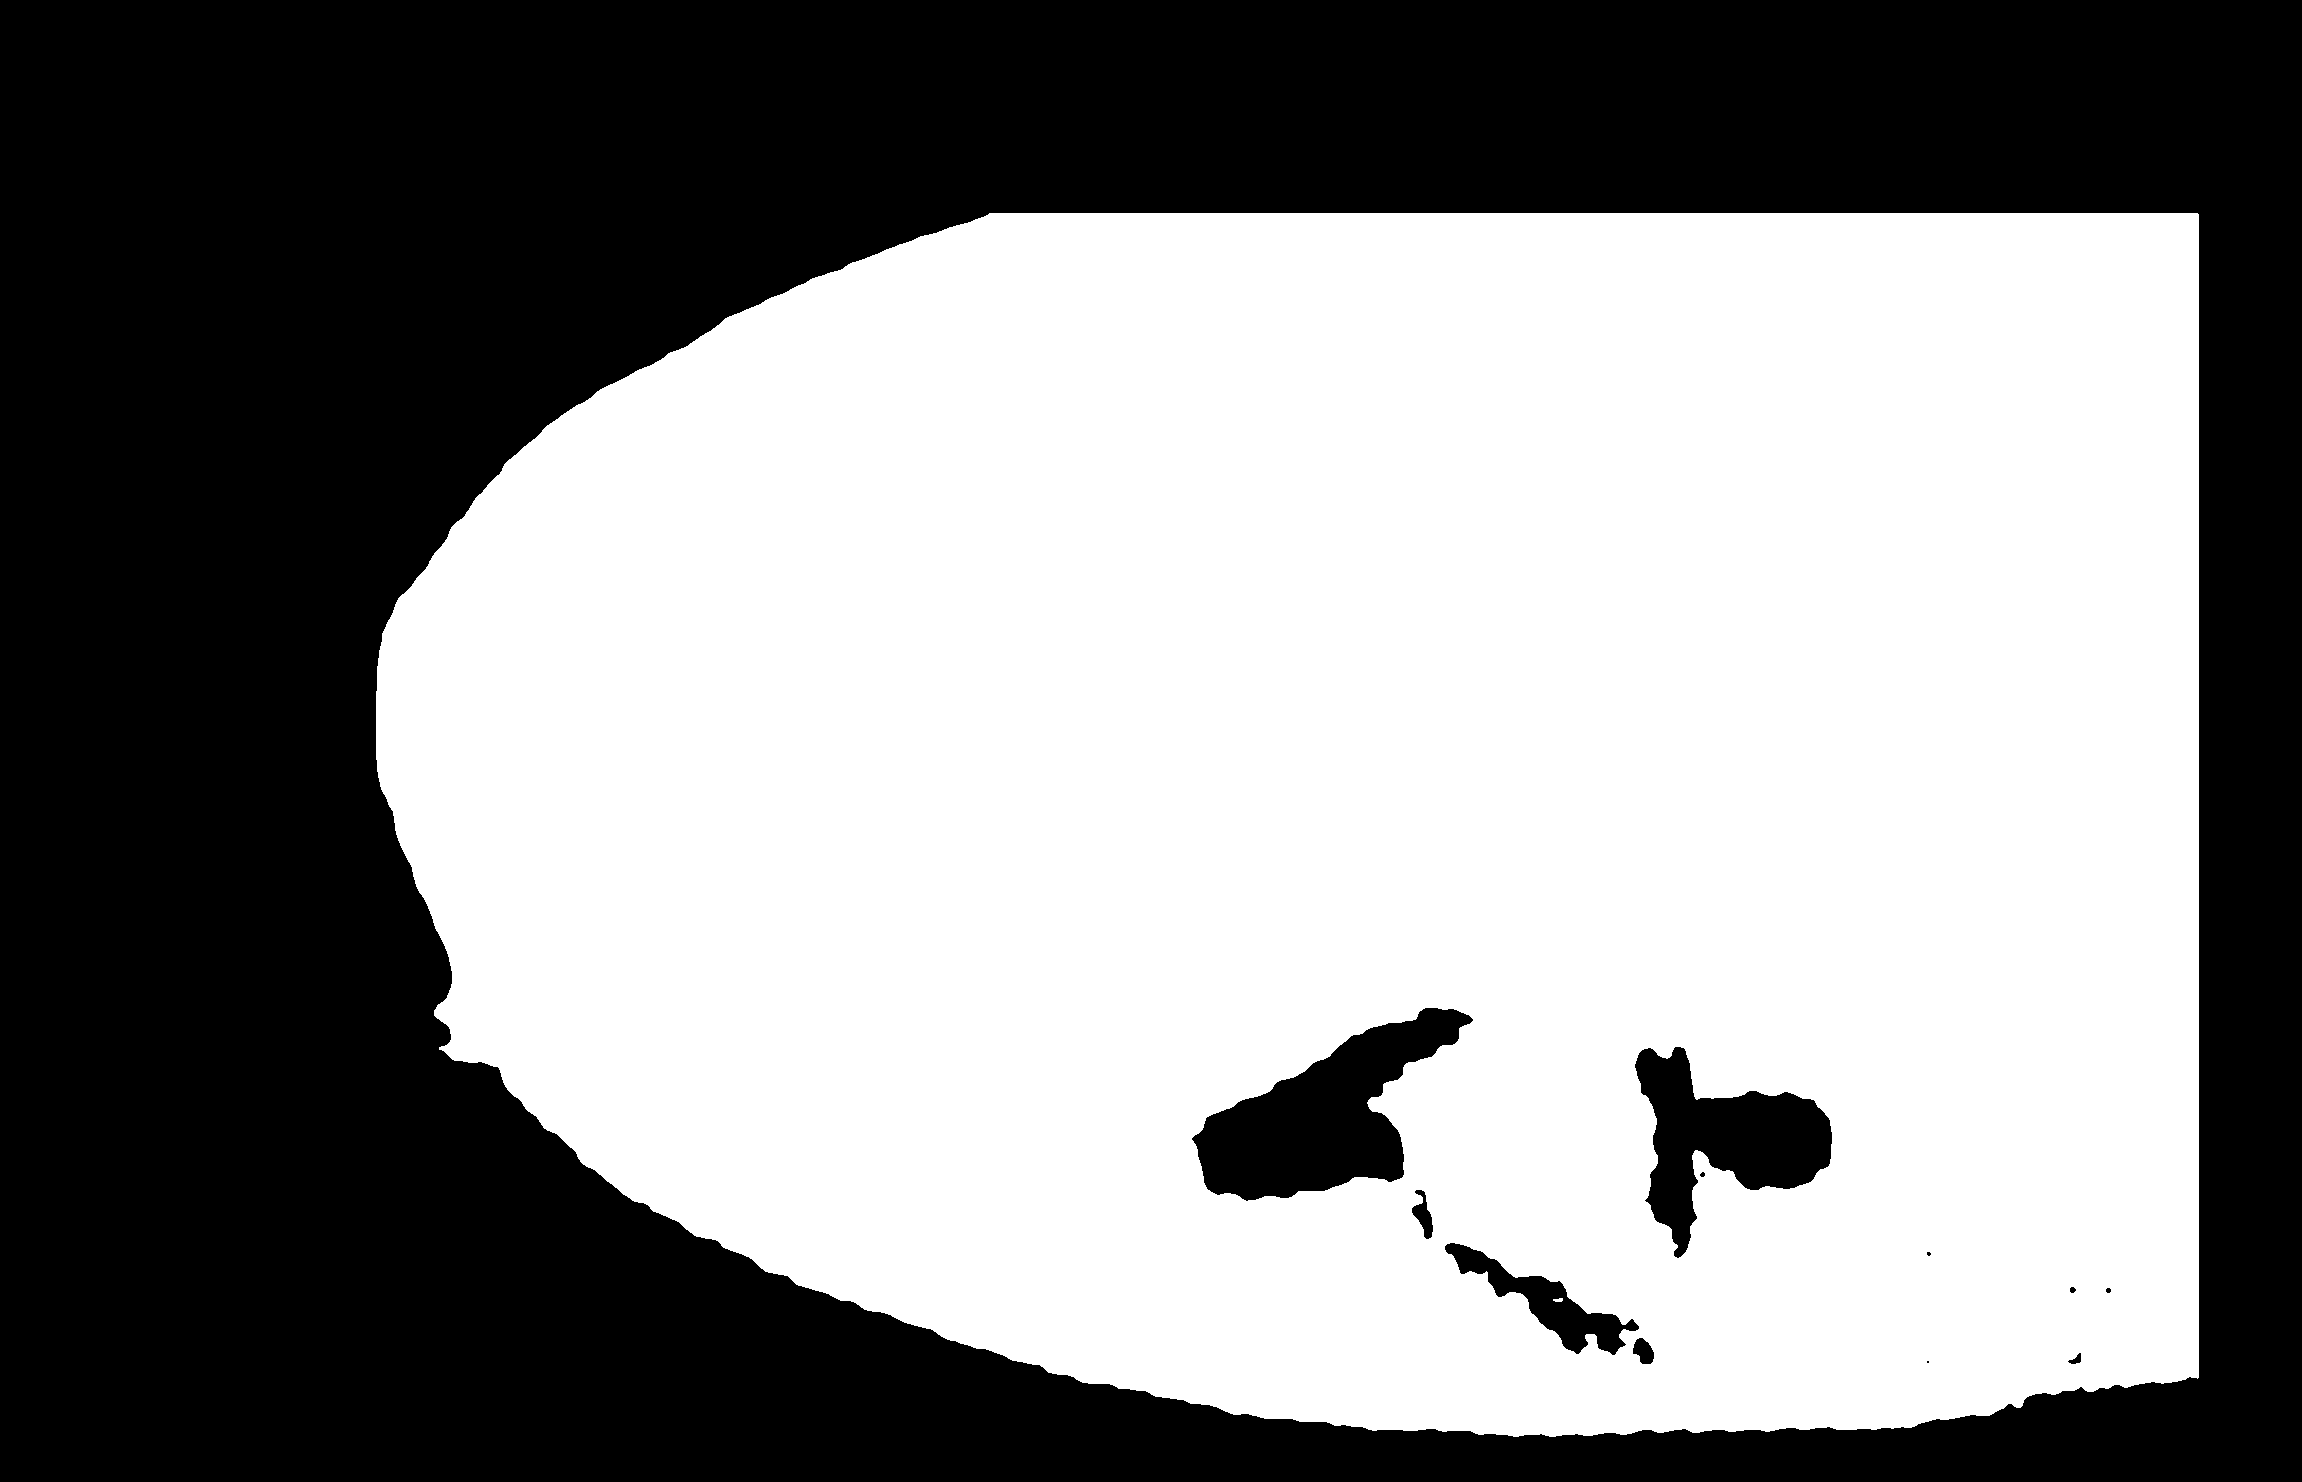
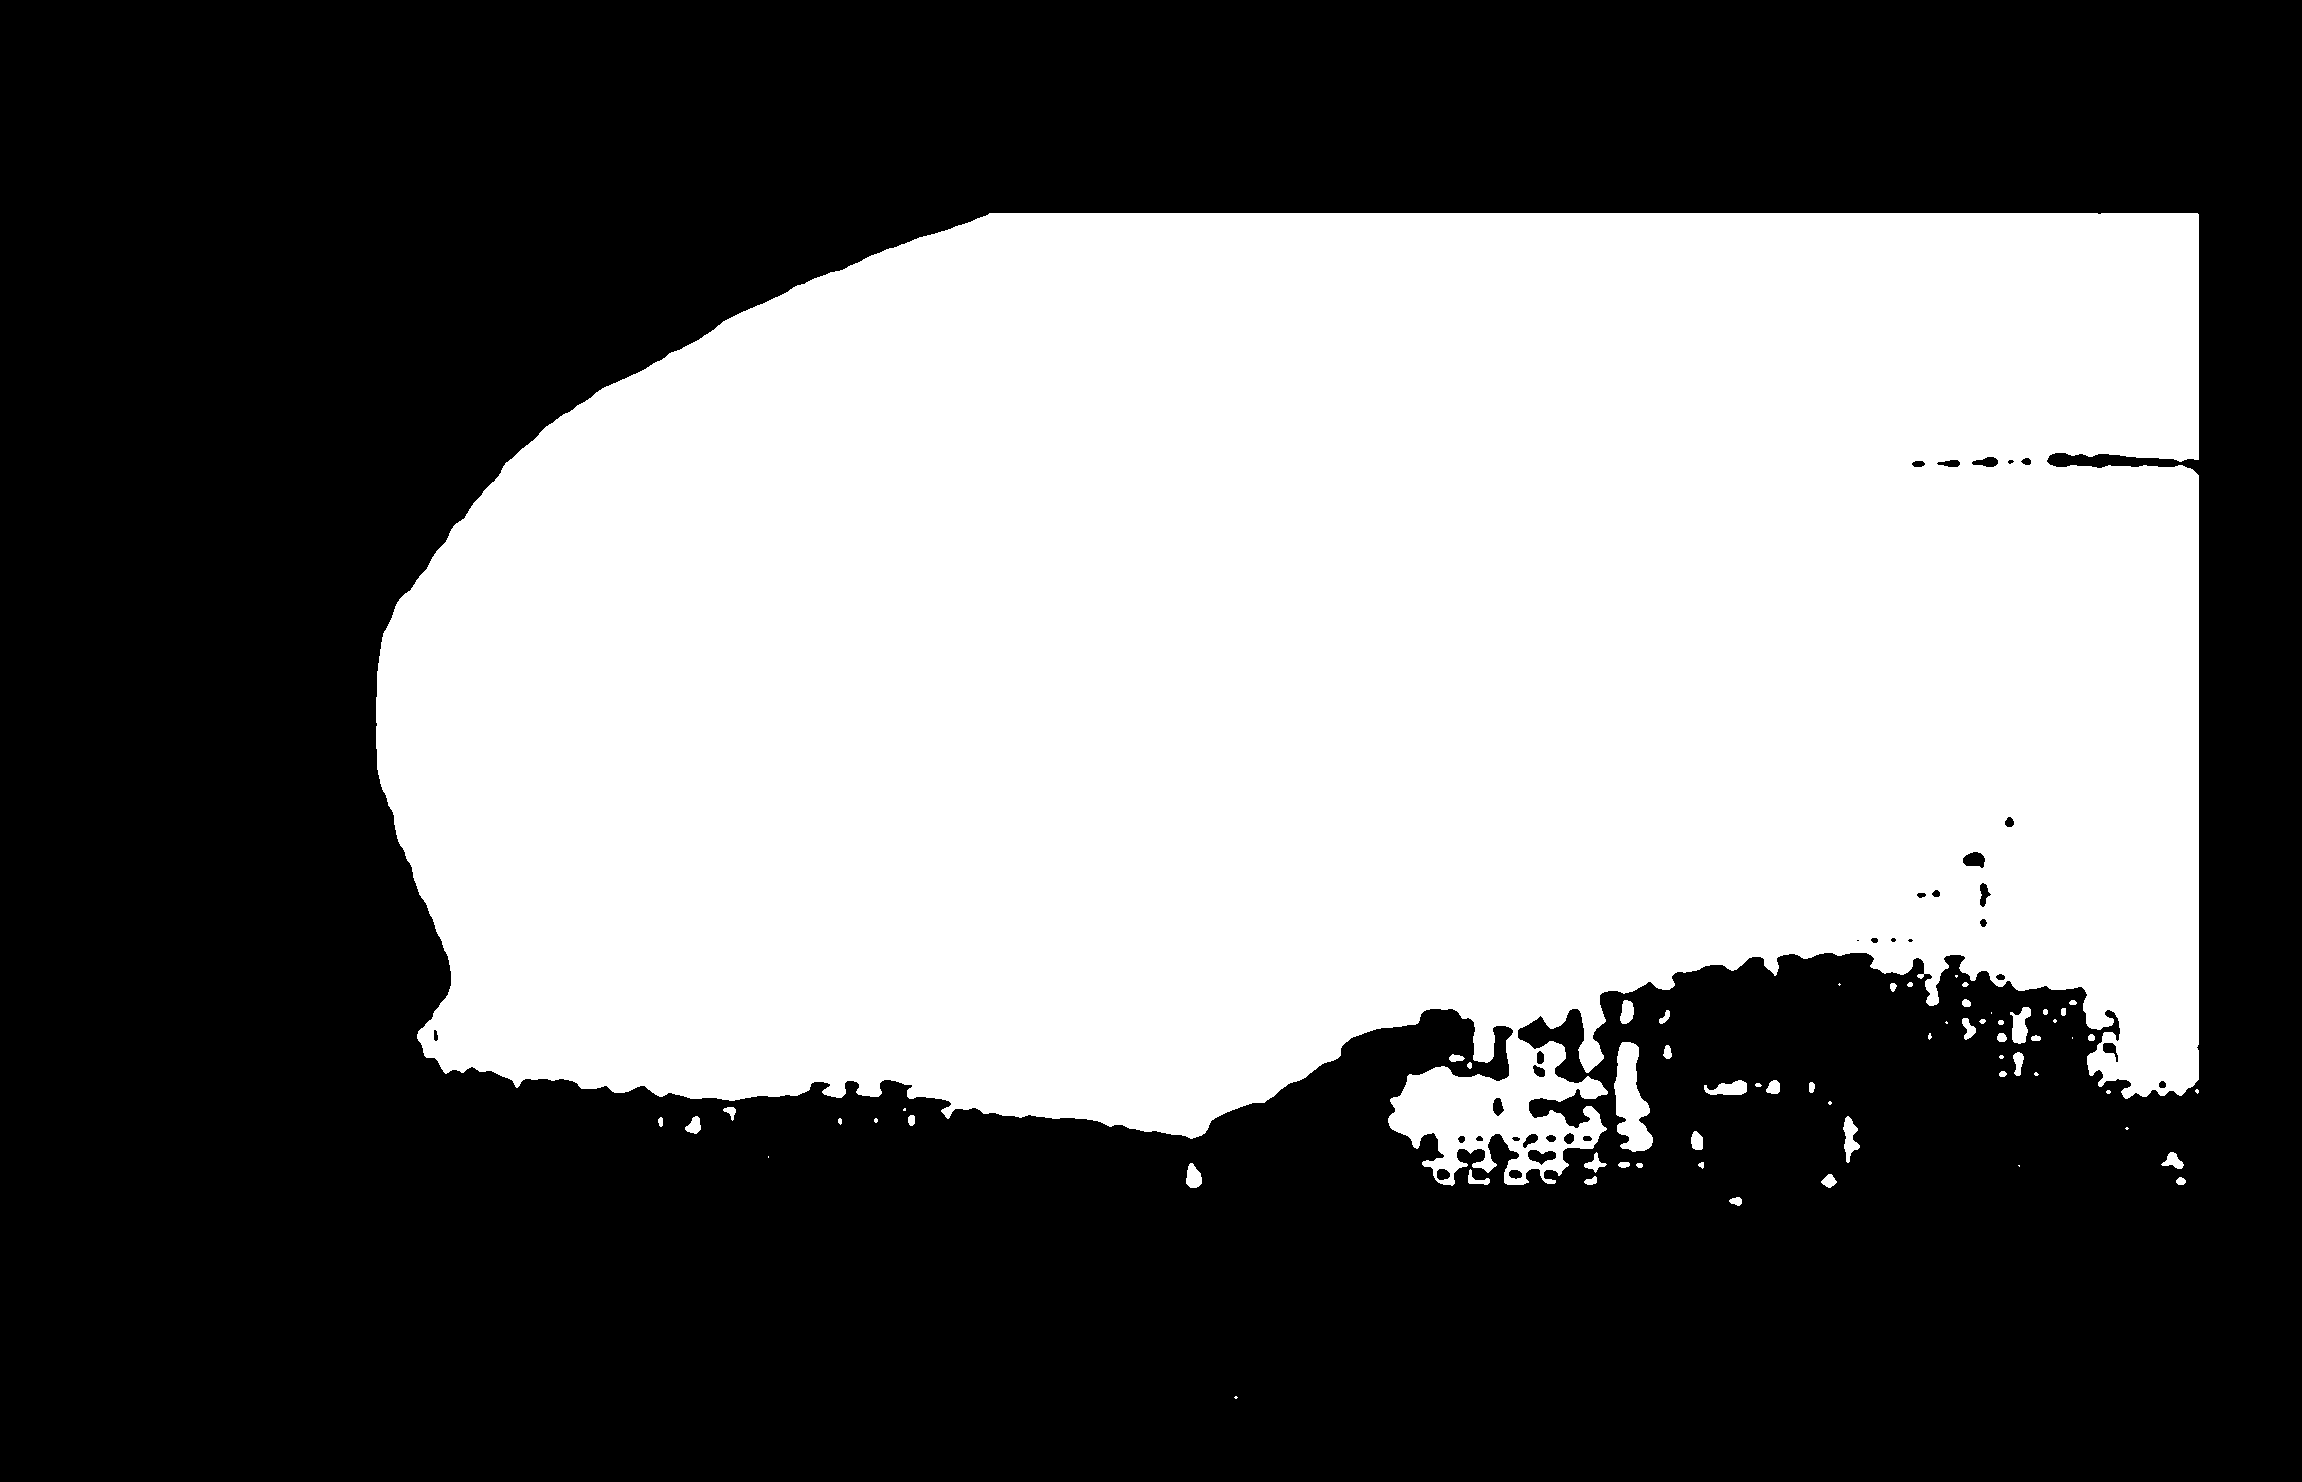
失败，换一种方式

Changed region(s): [[0.1851, 0.6208, 0.9561, 0.9933], [0.8944, 0.2794, 0.9561, 0.3414]]

diff --git a/cog_sculpt/core.py b/cog_sculpt/core.py
@@ -64,6 +64,8 @@ class Config:
     skip_update_first_iter: bool = True
     boundary_samples: int = 24
     boundary_inner_band: int = 6
+    boundary_alpha_radius_in: int = 8
+    boundary_alpha_radius_out: int = 8
 
     prompt_template: str = "a photo of the {instance} camouflaged in the background."
 
@@ -499,6 +501,104 @@ def _sample_boundary_points(M: np.ndarray, allowed_box: Box, n_samples: int) -> 
     return coords[::step][:n_samples]
 
 
+def _disk_mask(H: int, W: int, cy: int, cx: int, r: int) -> np.ndarray:
+    """生成以 (cy, cx) 为中心、半径 r 的圆盘二值掩码"""
+    y0 = max(0, cy - r); y1 = min(H, cy + r + 1)
+    x0 = max(0, cx - r); x1 = min(W, cx + r + 1)
+    if y0 >= y1 or x0 >= x1:
+        return np.zeros((H, W), dtype=np.uint8)
+    yy, xx = np.ogrid[y0:y1, x0:x1]
+    mask_local = ((yy - cy) ** 2 + (xx - cx) ** 2) <= (r * r)
+    out = np.zeros((H, W), dtype=np.uint8)
+    out[y0:y1, x0:x1] = mask_local.astype(np.uint8)
+    return out
+
+
+def make_boundary_semantic_points(
+    image: np.ndarray,
+    M: np.ndarray,
+    allowed_mask: np.ndarray,
+    allowed_box: Box,
+    scorer: RegionScorer,
+    instance_text: str,
+    max_total: int,
+    pos_neg_ratio: float,
+    band_out: int,
+    band_in: int,
+    r_out: int,
+    r_in: int,
+    n_samples: int,
+) -> Tuple[List[Point], List[Point]]:
+    """使用 Alpha-CLIP 语义评分在边界处生成正负点：
+    - 正点：在边界外侧的候选圆盘语义分数高 → 需要扩张
+    - 负点：在边界内侧的候选圆盘语义分数低 → 需要收缩
+    """
+    H, W = M.shape
+    pos_candidates: List[Tuple[float, Tuple[int, int]]] = []  # (score, (y,x) outside)
+    neg_candidates: List[Tuple[float, Tuple[int, int]]] = []  # (score, (y,x) inside), score用作升序选择
+
+    samples = _sample_boundary_points(M, allowed_box, n_samples=n_samples)
+    if not samples:
+        return [], []
+
+    # 逐点评估内/外小圆盘的语义分数
+    for (y, x) in samples:
+        inside = _nearest_inside(M, y, x, band_in, limit_box=allowed_box)
+        outside = _nearest_outside(M, y, x, band_out, limit_box=allowed_box)
+        # 外侧：若存在候选点，则生成小圆盘 alpha 并评分
+        if outside is not None:
+            oy, ox = outside
+            alpha_out = _disk_mask(H, W, oy, ox, r_out)
+            alpha_out = (alpha_out & allowed_mask).astype(np.uint8)
+            if alpha_out.sum() > 0:
+                s_out = float(scorer.score(image, alpha_out, instance_text))
+                pos_candidates.append((s_out, (oy, ox)))
+        # 内侧：若存在候选点，则生成小圆盘 alpha 并评分
+        if inside is not None:
+            iy, ix = inside
+            alpha_in = _disk_mask(H, W, iy, ix, r_in)
+            alpha_in = (alpha_in & allowed_mask).astype(np.uint8)
+            if alpha_in.sum() > 0:
+                s_in = float(scorer.score(image, alpha_in, instance_text))
+                neg_candidates.append((s_in, (iy, ix)))
+
+    # 选择点：正点取语义分数最高的前 K 个，负点取分数最低的前 K 个
+    max_pos = int(max_total * pos_neg_ratio / (1.0 + pos_neg_ratio))
+    max_neg = max_total - max_pos
+
+    pos_candidates.sort(key=lambda t: t[0], reverse=True)
+    neg_candidates.sort(key=lambda t: t[0])
+
+    pos_pts: List[Point] = []
+    neg_pts: List[Point] = []
+
+    for s, (py, px) in pos_candidates[:max_pos]:
+        pos_pts.append(Point(py, px, True, score=float(s)))
+    for s, (ny, nx) in neg_candidates[:max_neg]:
+        neg_pts.append(Point(ny, nx, False, score=float(s)))
+
+    return pos_pts, neg_pts
+
+
+def make_boundary_refine_points(
+    M: np.ndarray,
+    allowed_box: Box,
+    n_samples: int,
+) -> List[Tuple[int, int]]:
+    """均匀采样边界点（限制在 allowed_box 内）"""
+    boundary = _boundary_mask(M)
+    boundary = _boundary_mask(M)
+    bys, bxs = np.where(boundary > 0)
+    coords = [(int(y), int(x)) for y, x in zip(bys.tolist(), bxs.tolist())
+              if (allowed_box.r0 <= y < allowed_box.r1 and allowed_box.c0 <= x < allowed_box.c1)]
+    if not coords:
+        return []
+    if n_samples <= 0 or n_samples >= len(coords):
+        return coords
+    step = max(1, len(coords) // n_samples)
+    return coords[::step][:n_samples]
+
+
 def make_boundary_refine_points(
     M: np.ndarray,
     allowed_box: Box,
@@ -781,14 +881,21 @@ def sculpting_pipeline(
             iter_max_points = min(iter_max_points, cfg.first_iter_max_points)
 
         if cfg.boundary_refine_only and it >= 1:
-            # 在边界带生成点
-            Ppos, Pneg = make_boundary_refine_points(
+            # 在边界带生成点（语义引导）
+            Ppos, Pneg = make_boundary_semantic_points(
+                image,
                 (M & allowed_mask).astype(np.uint8),
+                allowed_mask,
                 allowed_box,
+                scorer,
+                instance_text,
                 max_total=iter_max_points,
                 pos_neg_ratio=cfg.pos_neg_ratio,
-                boundary_band_out=cfg.boundary_band,
-                boundary_band_in=cfg.boundary_inner_band,
+                band_out=cfg.boundary_band,
+                band_in=cfg.boundary_inner_band,
+                r_out=cfg.boundary_alpha_radius_out,
+                r_in=cfg.boundary_alpha_radius_in,
+                n_samples=cfg.boundary_samples,
             )
             # 调试输出
             if debug_hook is not None:
